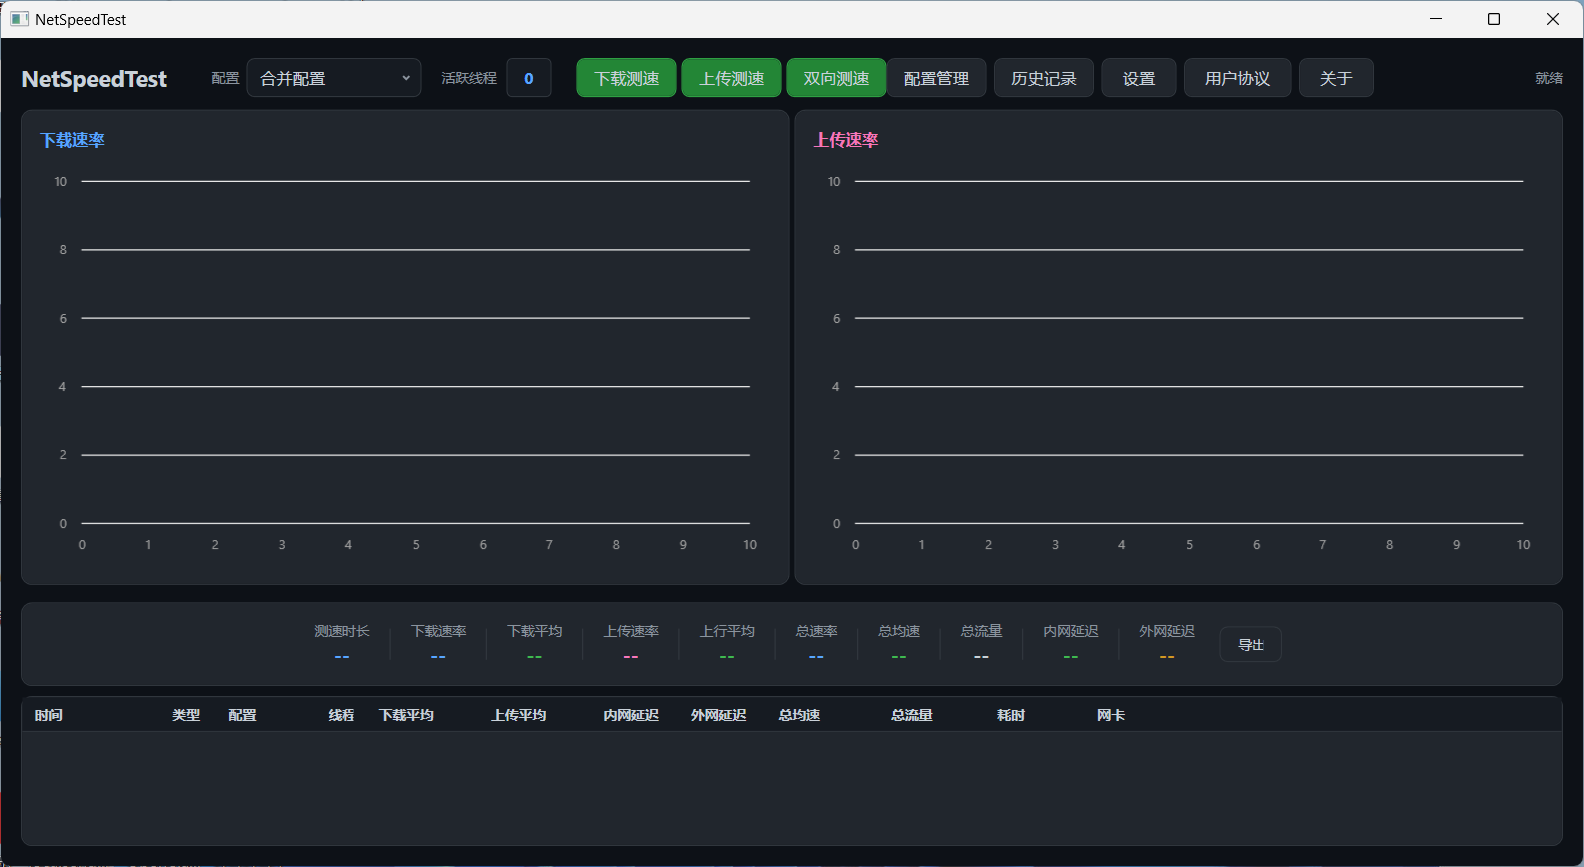
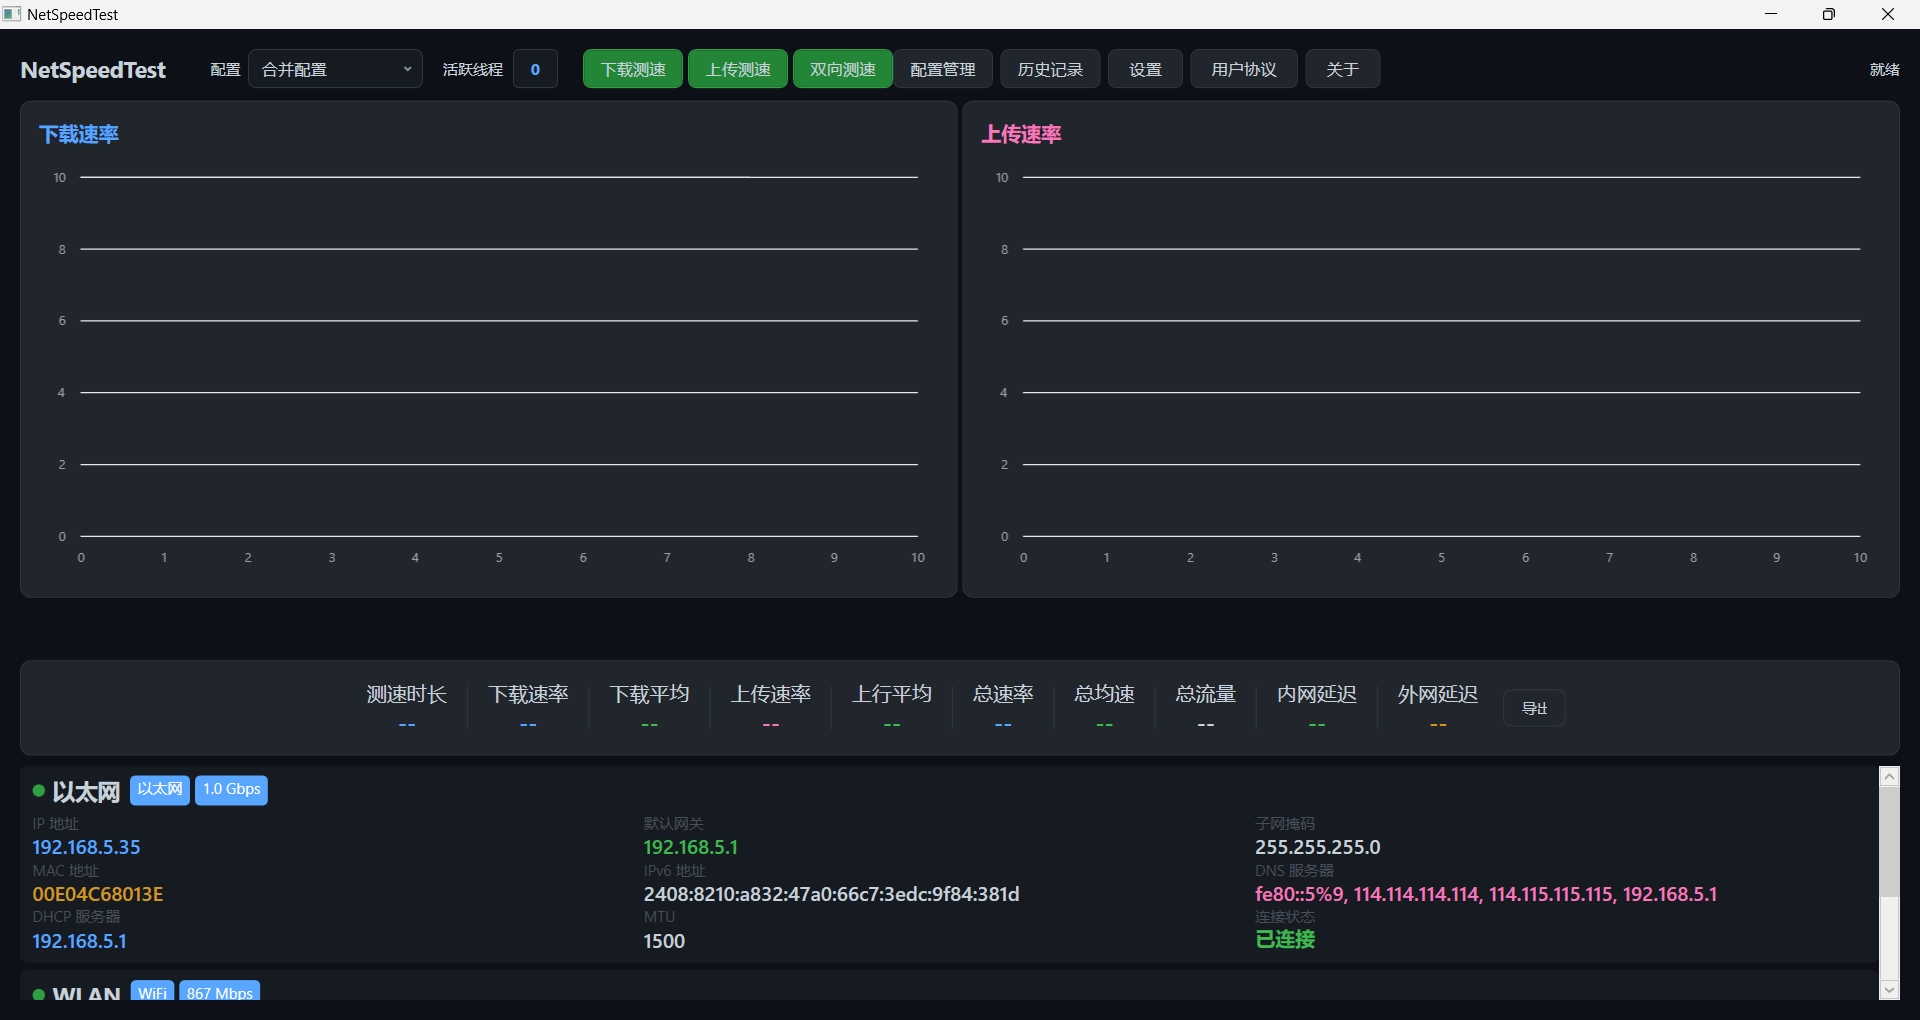
docs: update README, changelog, and screenshot for v1.3.0

diff --git a/CHANGELOG.md b/CHANGELOG.md
@@ -1,0 +1,63 @@
+# Changelog
+
+All notable changes to NetSpeedTest will be documented in this file.
+
+---
+
+## V1.3.0 (2026-07-23)
+
+### 🐛 修复
+- 修复信号量槽泄漏（回调异常导致并发量永久下降）
+- 修复全速测试自适应线程检测失效（tc 默认值误用）
+- 修复全速测试补偿时长剔除缺失
+- 修复 UI 与 DB 之间延迟值不一致（历史记录偏差）
+- 修复 DB 写入静默失败（增加异常日志兜底）
+- 修复 CancelTest 定时器处理器未摘除
+
+### 🔧 优化
+- 图表单测模式切换增加 300ms 平滑过渡动画
+- 下载/上传测速互斥回调（不显示对方方向数值）
+- 多网卡信息卡（9 项详情 + 彩色分类布局）
+- 历史记录独立页面 + 一键清除全部
+- 首页底部网络信息卡替代历史表格
+
+### 🚀 新增
+- 掉速紧急补偿（检测 + 自动加线程 + 最终结果修正）
+- 自适应线程上限（低配电脑防止多线程反噬降速）
+
+---
+
+## V1.2.0 (2026-07-17)
+
+### 🚀 新增
+- 多线程上传测速 — 128 线程并发 HTTP POST（64KB 随机数据块），失败自动换 URL
+- 全速双向测速 — 下载 + 上传同时进行，交替分配线程
+- NIC 计数器级速率 — 基于系统网卡 `IPv4Statistics` 差分计算，不受 HTTP 开销干扰
+- 自定义测速配置 — 新建/删除/重命名，独立管理下载/上传 URL
+- 配置导入/导出 — JSON 格式（兼容 HBCS），跨设备迁移
+- 历史记录 — SQLite 持久化，主窗口最近 20 条，独立历史窗口分页查看
+- 数据导出 — 最新测速结果导出 JSON
+- 实时图表 — LiveCharts2 下载/上传速率折线图，可拖拽分割线
+- 内网延迟检测 — ICMP → TCP 443 → HTTPS HEAD → HTTP HEAD 四层回退
+- 首次启动 EULA — 同意协议方可使用
+- 更新日志弹窗 — 按版本号检测，首次运行自动弹出
+- 暗色主题 — GitHub Dark 风格
+
+### 🔧 优化
+- 8 个内置 CDN 节点（阿里云×2、腾讯云×2、华为云、电信、联通、移动）
+- 3 秒滑动窗口平滑速率显示
+- 线程渐变启动（可配间隔，默认 200ms）
+- 全局超时控制 `CancellationTokenSource` 统一管理
+- 每网卡速率条实时显示
+- 速率 < 1 Mbps → Kbps，≥ 1000 Mbps → Gbps，全数值 InvariantCulture 格式化
+- 设置面板 6 项可调参数
+
+---
+
+## V1.1.1 (2026-07-14)
+
+### 🚀 新增
+- 首个正式发布版本
+- 多线程下载测速（HTTP GET，多 URL 轮询）
+- 外网延迟检测（12 个公网目标并发 Ping）
+- 基础 MVVM 架构（.NET 8 + WPF + CommunityToolkit.Mvvm）